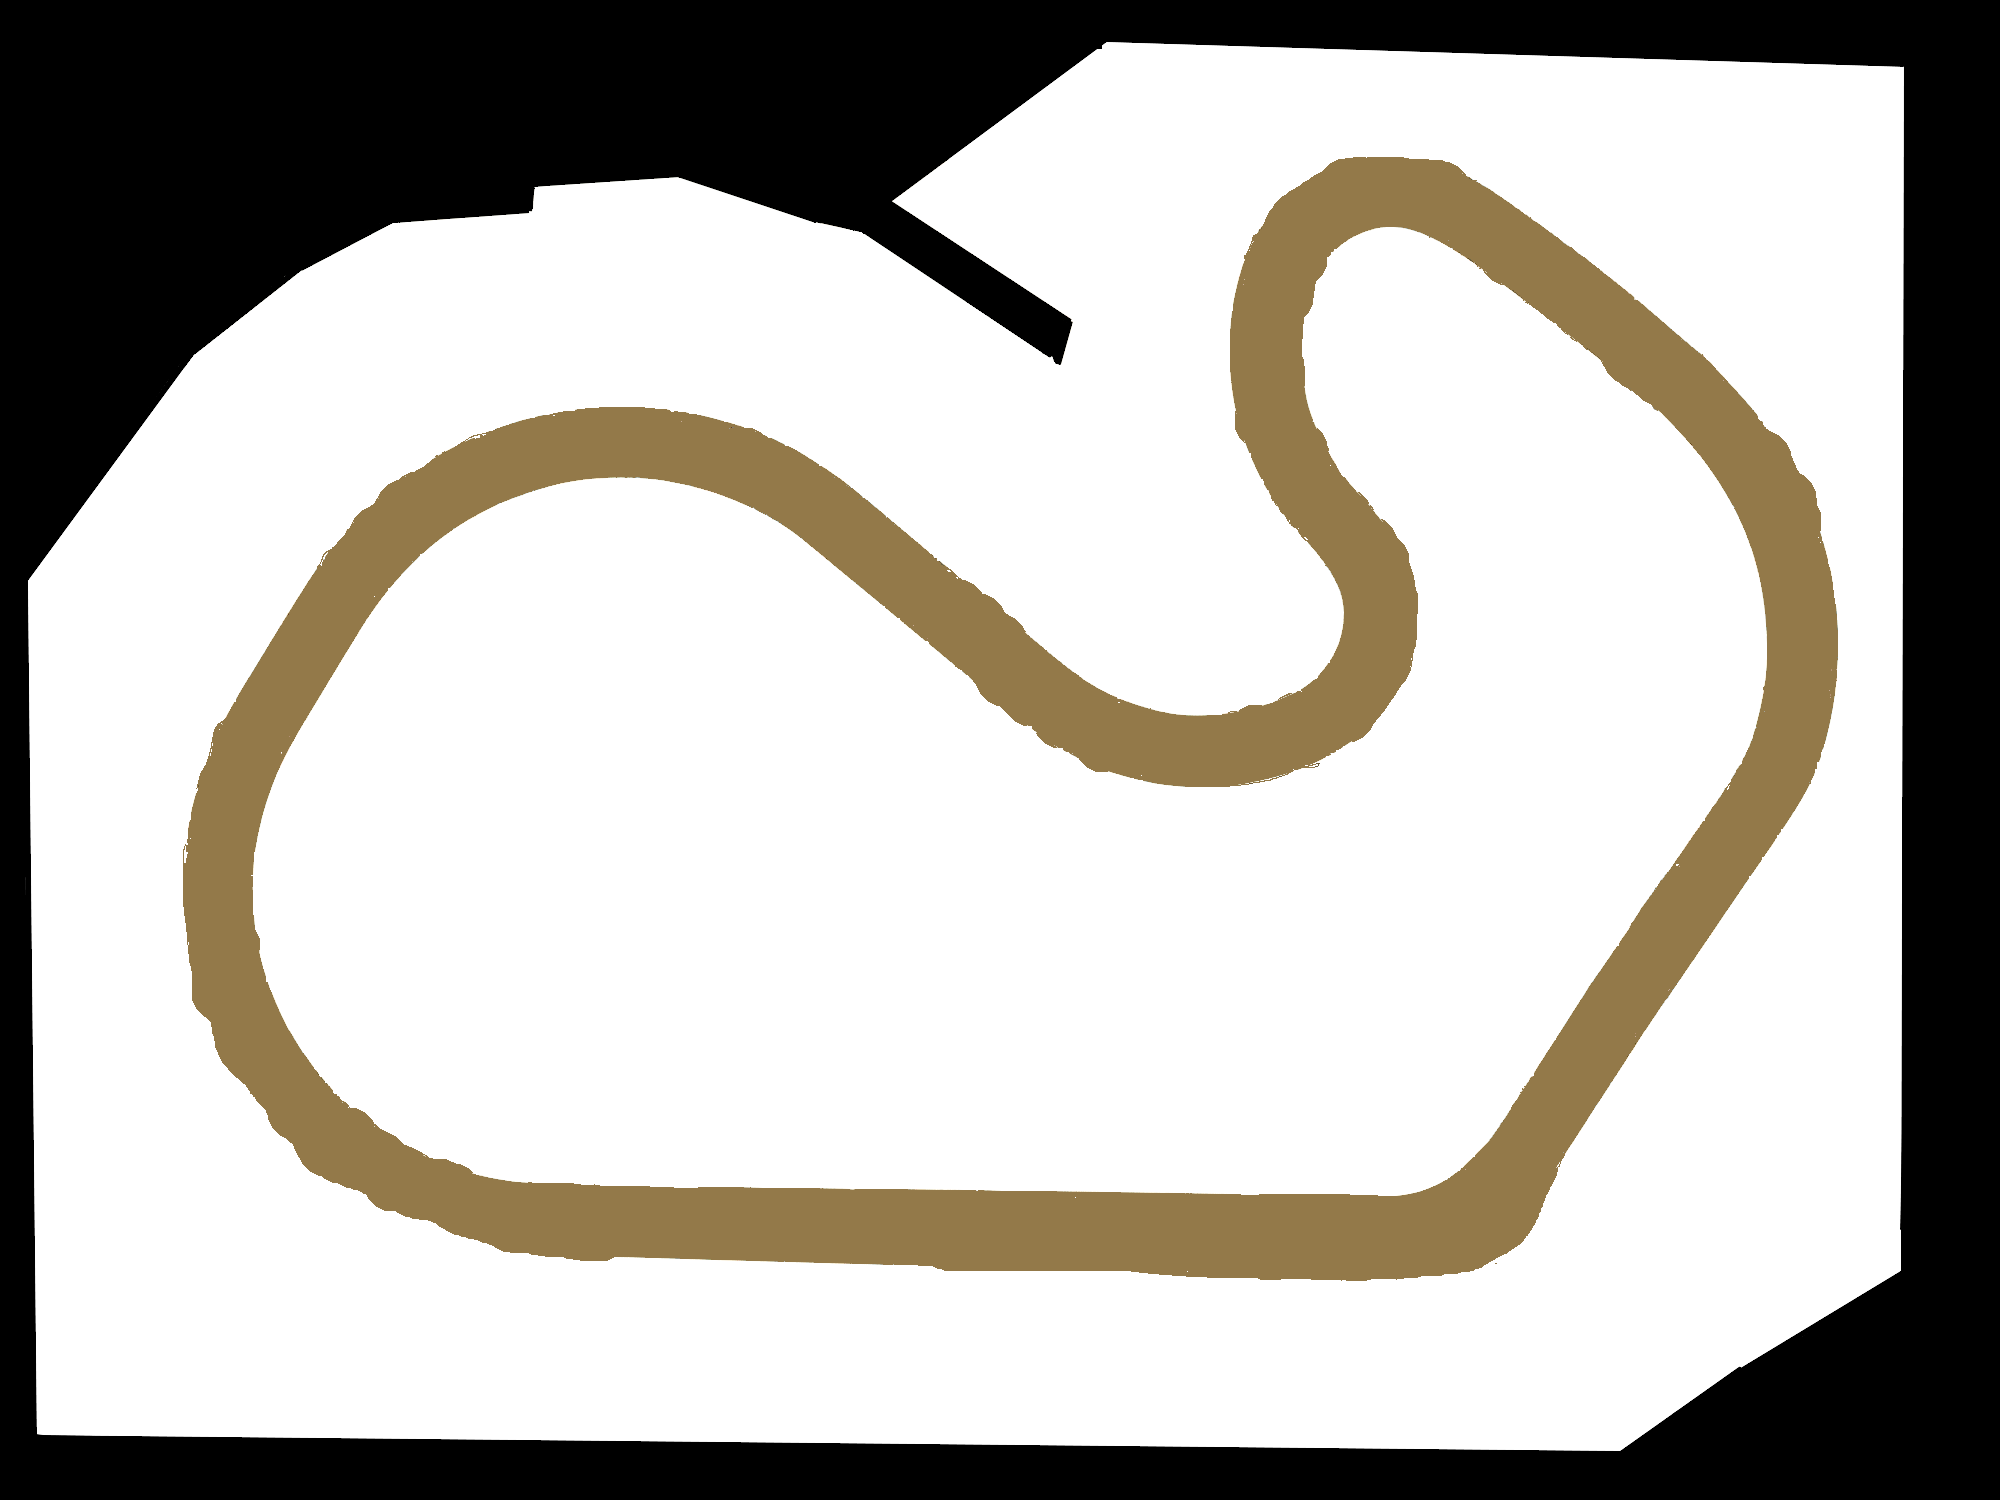
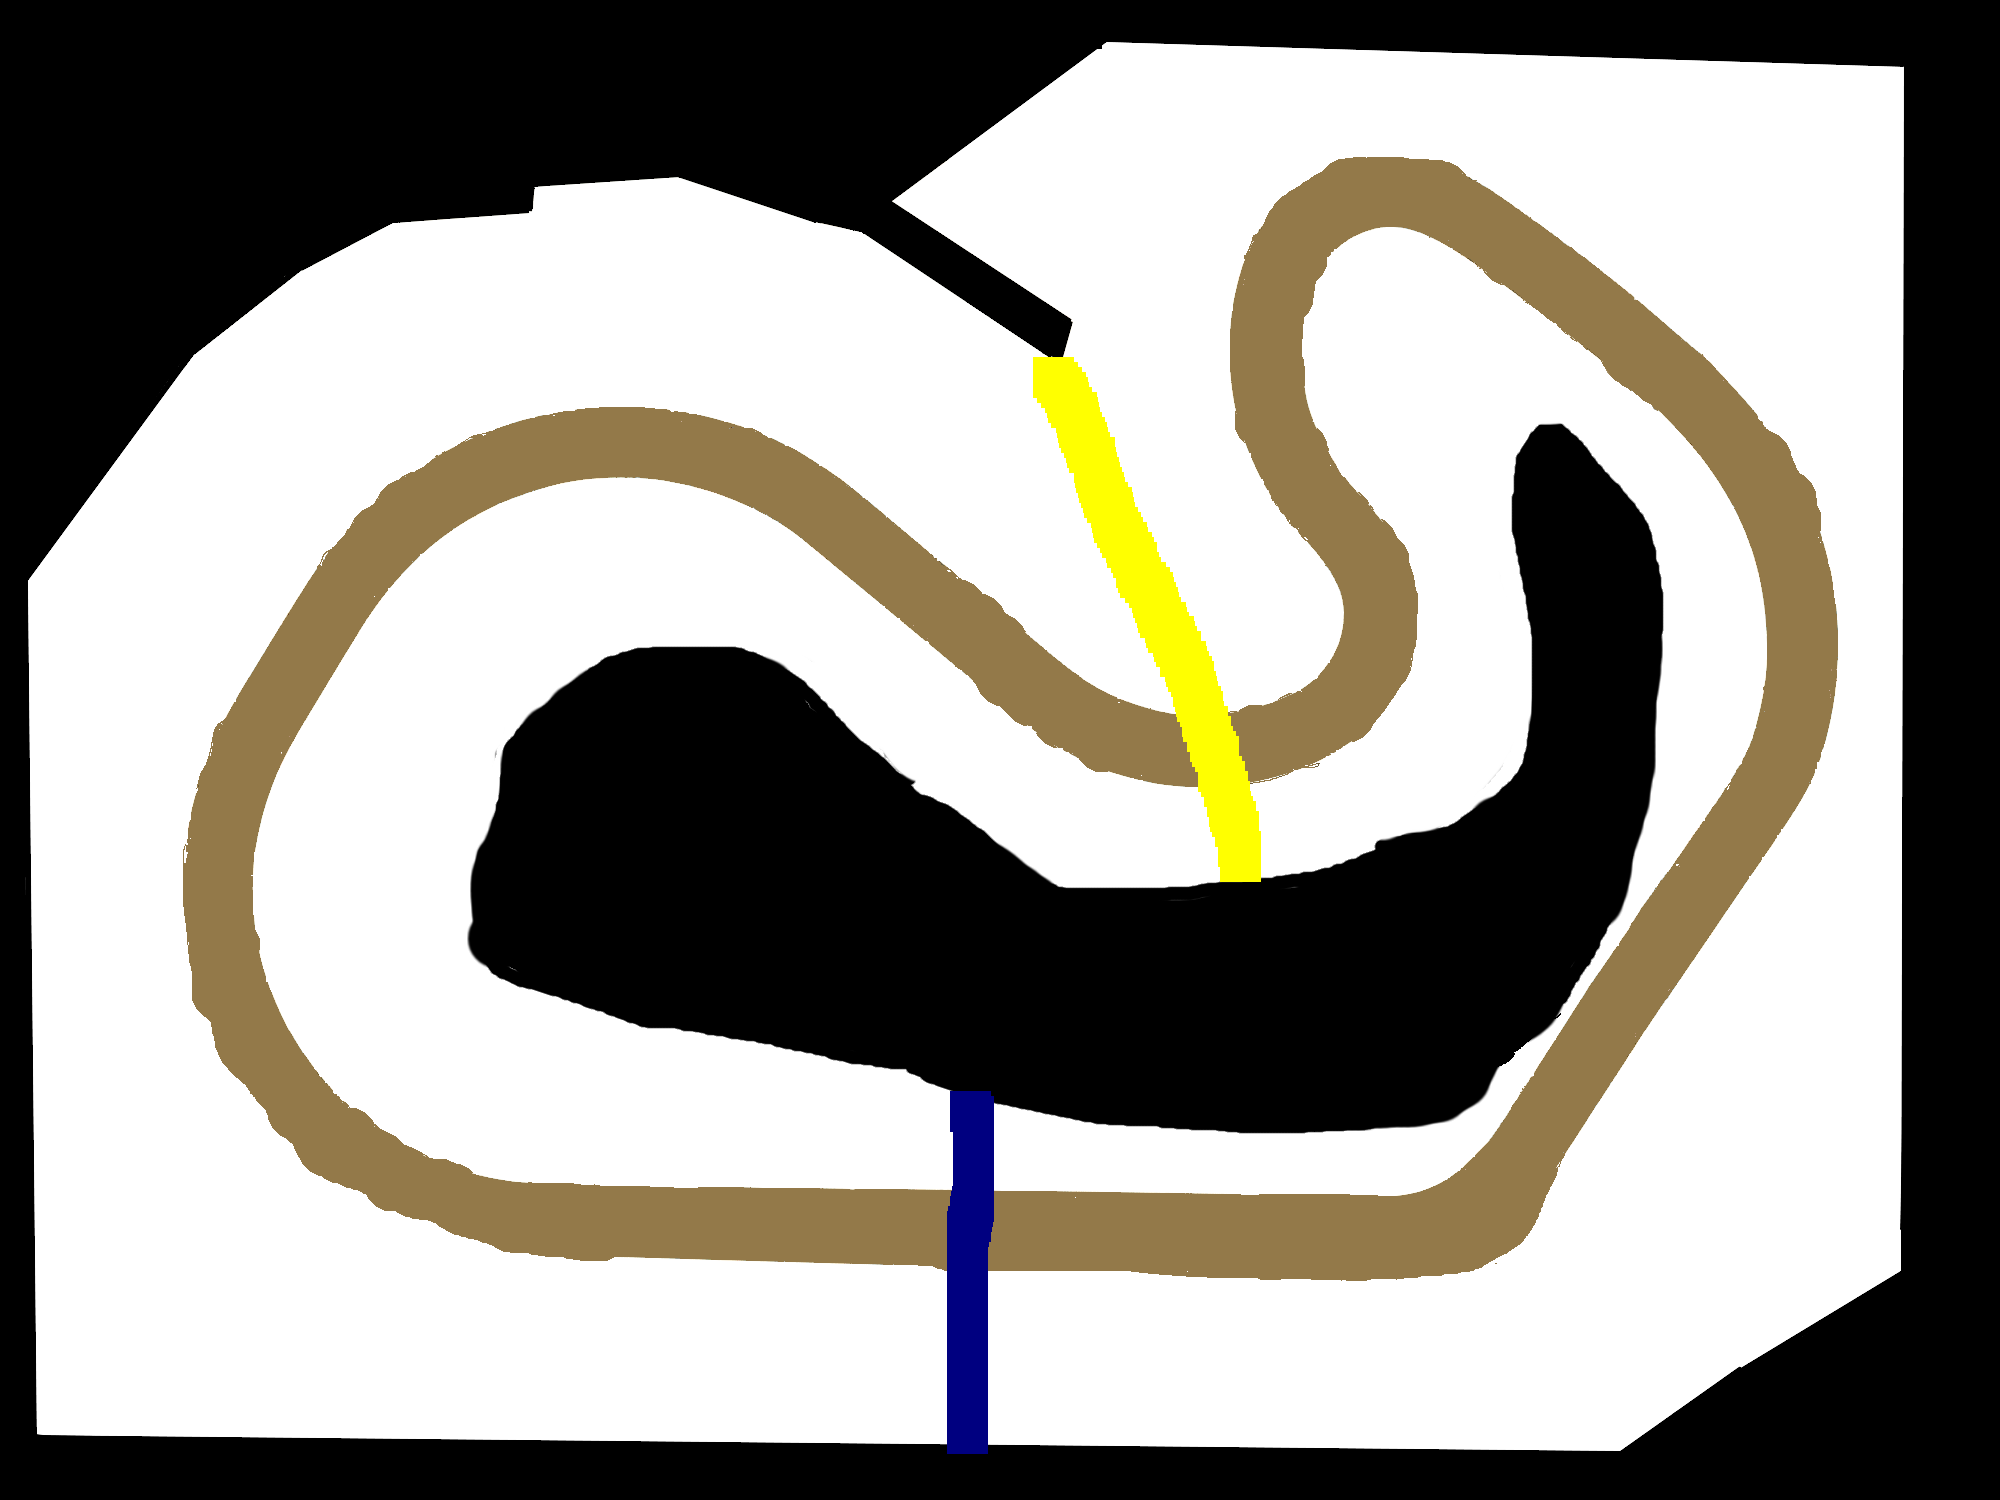
Done : - laps counter - Speed meter - End screen - Chronometer
TODO :
- minimap
- beginning screen

Changed region(s): [[0.217, 0.2453, 0.837, 0.9813]]

diff --git a/LordOfTheRace/LordOfTheRace/main.cpp b/LordOfTheRace/LordOfTheRace/main.cpp
@@ -3,6 +3,7 @@
 #include <SFML/Graphics.hpp>
 #include "Car.h"
 #include "GraphicEngine.h"
+#include "CXBOXController.h"
 
 using namespace std;
 using namespace sf;
@@ -11,13 +12,23 @@ const int WINDOW_WIDTH = 800;//1200
 const int WINDOW_HEIGHT = 600;//900
 const String WINDOW_NAME = "Lord of the race";
 const int FRAME_LIMIT = 32;
+const int LAP_MAX = 3;
 
 int main()
 {
 	RenderWindow app(VideoMode(WINDOW_WIDTH, WINDOW_HEIGHT, 32), WINDOW_NAME);
 	GraphicEngine * m_graphicEngine = new GraphicEngine(app);
-
+	int currentLap;
+	int previousLap = 1;
 	string initValue = m_graphicEngine->initGraphicEngine();
+	int m_gamePadDirection = 0;
+
+	//TODO : XInput
+	CXBOXController* Player1;
+	CXBOXController* Player2;
+	Player1 = new CXBOXController(1);
+	Player2 = new CXBOXController(2);
+	XINPUT_STATE m_state;
 
 	if (initValue != "")
 	{
@@ -68,14 +79,45 @@ int main()
 
 	Vector2f center(car.getX(), car.getY());
 	Vector2f halfSize(WINDOW_WIDTH / 4, WINDOW_HEIGHT / 4);
+	//Vector2f halfSize(WINDOW_WIDTH, WINDOW_HEIGHT);
 	View view(center, halfSize);	
 
 	while (app.isOpen())
 	{
+		m_state = Player1->GetState();
+		XINPUT_STATE m_state2 = Player2->GetState();
+		m_gamePadDirection = 0;
+
+		float LX = m_state.Gamepad.sThumbLX;
+		float LY = m_state.Gamepad.sThumbLY;
+
+		//determine how far the controller is pushed
+		float magnitude = sqrt(LX*LX + LY*LY);
+
+		//determine the direction the controller is pushed
+		float normalizedLX = LX / magnitude;
+		float normalizedLY = LY / magnitude;
+
+		float normalizedMagnitude = 0;
+
+		if (magnitude > XINPUT_GAMEPAD_LEFT_THUMB_DEADZONE)
+		{
+			if (normalizedLX < 0)
+				m_gamePadDirection = -1;
+			else
+				m_gamePadDirection = 1;
+
+		}
+		else //if the controller is in the deadzone zero out the magnitude
+		{
+			magnitude = 0.0;
+			normalizedMagnitude = 0.0;
+		}
+
 		Event event;
 		while (app.pollEvent(event))
 		{
-			if (event.type == Event::Closed)
+			if (event.type == Event::Closed || (Player1->GetState().Gamepad.wButtons & XINPUT_GAMEPAD_BACK))// || (m_state.Gamepad.wButtons & XINPUT_GAMEPAD_BACK))// || m_gamepad.isPressed()
 				app.close();
 
 			if (event.type == Event::KeyPressed)
@@ -87,7 +129,7 @@ int main()
 		Manage of the keyboard input
 		*/
 
-		if (Keyboard::isKeyPressed(Keyboard::Left))
+		if (Keyboard::isKeyPressed(Keyboard::Left) || (Player1->GetState().Gamepad.wButtons & XINPUT_GAMEPAD_DPAD_LEFT) || m_gamePadDirection == -1)
 		{
 			if (car.getSpeed() > 0)
 			{
@@ -96,7 +138,7 @@ int main()
 			}			
 		}
 
-		if (Keyboard::isKeyPressed(Keyboard::Right))
+		if (Keyboard::isKeyPressed(Keyboard::Right) || (Player1->GetState().Gamepad.wButtons & XINPUT_GAMEPAD_DPAD_RIGHT) || m_gamePadDirection == 1)
 		{
 			if (car.getSpeed() > 0)
 			{
@@ -105,12 +147,14 @@ int main()
 			}
 		}
 
-		if (Keyboard::isKeyPressed(Keyboard::Up))
+		if (Keyboard::isKeyPressed(Keyboard::Up) || (Player1->GetState().Gamepad.wButtons & XINPUT_GAMEPAD_A))
 		{
 			car.speedUp();
+		} else {
+			car.speedDown();
 		}
 
-		if (Keyboard::isKeyPressed(Keyboard::Down))
+		if (Keyboard::isKeyPressed(Keyboard::Down) || (Player1->GetState().Gamepad.wButtons & XINPUT_GAMEPAD_X))
 		{
 			car.speedDown();
 		}
@@ -118,19 +162,32 @@ int main()
 		/*
 		Display
 		*/
+		currentLap = car.getLap();
 		app.clear();
-		car.move(raceMask);								
 
-		app.draw(raceSprite);
+		if (previousLap != currentLap)
+		{
+			m_graphicEngine->newLap();
+			previousLap = currentLap;
+		}
+
+		if (currentLap == LAP_MAX + 1)
+		{
+			m_graphicEngine->drawFinalScreen();
+			
+		} else { 
+			car.move(raceMask);								
+
+			app.draw(raceSprite);
 	
-		//This 3 lines are linked. Cause of the "View"
-		m_graphicEngine->draw(car.getSpeed());
-		app.setView(view);
-		view.setCenter(car.getX(), car.getY());
+			//This 3 lines are linked. Cause of the "View"
+			m_graphicEngine->draw(car.getSpeed(), currentLap, 3);
+			app.setView(view);
+			view.setCenter(car.getX(), car.getY());
 
-		carSprite.setPosition(car.getX(), car.getY());		
-		app.draw(carSprite);		
-
+			carSprite.setPosition(car.getX(), car.getY());		
+			app.draw(carSprite);
+		}
 		app.display();
 	}
 

diff --git a/LordOfTheRace/LordOfTheRace/GraphicEngine.h b/LordOfTheRace/LordOfTheRace/GraphicEngine.h
@@ -6,6 +6,7 @@
 #include <string>
 #include <iostream>
 #include <sstream>
+#include "Chronometer.h"
 
 class GraphicEngine
 {
@@ -16,10 +17,14 @@ public:
 	std::string initGraphicEngine();
 	std::string loadTexture();
 	std::string initText();
+	sf::Text getText();
 	void loadSprite();
 	void initView();
 	void initVar();
-	void draw(float speed);	
+	void newLap();
+	void setTextForDraw(float speed, int lap, int maxLap);
+	void draw(float speed, int lap, int maxLap);
+	void drawFinalScreen();
 
 private:
 
@@ -27,7 +32,6 @@ private:
 	sf::View viewMeter;
 
 	//Speed meter
-	SpeedMeter m_speledMeter;
 	sf::Texture m_T_speedMeter;
 	sf::Sprite m_S_speedMeter;	
 	
@@ -37,18 +41,29 @@ private:
 	
 	//Text
 	sf::Text m_speedText;	
-	sf::Font m_font;
+	sf::Text m_lap;
+	sf::Text m_finalScreen;
+	sf::Text m_currentTimer;
+	sf::Text m_bestLapText;
+	sf::Font m_font;	
+
+	//Chronometer
+	Chronometer m_chronometer;
+
+	int m_bestLap = -1;
 
 	const double m_speedMeterScale = 0.1;
 	const double m_handScale = 0.15;
-	const double SPEED_METER_X = 0;
-	const double SPEED_METER_Y = 800;	
-	const double HAND_BEGIN_POSITION = -110;
-	const double SPEED_ADAPTOR = 20.98;
-	//Min : -110 // Max : 18
-
-	const int VIEW_SIZE_X = 200;
-	const int VIEW_SIZE_Y = 200;
+	const double SPEED_METER_X = 100;
+	const double SPEED_METER_Y = 600;	
+	const double HAND_BEGIN_POSITION = -123;
+	//Min : -123 // Max : 115
+	const double SPEED_ADAPTOR = 39.016;
+	const double SPEED_ADAPTATOR_TEXT = 32.787;
+	const int HAND_X = 220;
+	const int HAND_Y = 725;	
+	const int VIEW_SIZE_X = 800;
+	const int VIEW_SIZE_Y = 600;
 	
 };
 

diff --git a/LordOfTheRace/LordOfTheRace/Car.cpp b/LordOfTheRace/LordOfTheRace/Car.cpp
@@ -6,7 +6,8 @@ Constructor & Destructor
 
 Car::Car(float _x, float _y, float a, float s) : x(_x), y(_y), angle(a), speed(s)
 {
-
+	m_currentLap = 1;
+	m_nextLap = false;
 }
 
 /*
@@ -32,6 +33,11 @@ float Car::getAngle()
 	return angle;
 }
 
+float Car::getLap()
+{
+	return m_currentLap;
+}
+
 /*
 Others
 */
@@ -42,19 +48,36 @@ void Car::move(sf::Image& maskRace)
 	m_nextX = x + cos(angle * M_PI / 180) *  speed;
 	m_nextY = y + sin(angle * M_PI / 180) * speed;
 
-	if (calculateNextMove(maskRace))
+	if (calculateMaskCollision(maskRace))
 	{
 		x += cos(angle * M_PI / 180) * speed;
 		y += sin(angle * M_PI / 180) * speed;
 	}		
 }
 
-bool Car::calculateNextMove(sf::Image& raceMask)
+bool Car::calculateMaskCollision(sf::Image& raceMask)
 {
 	sf::Color nextPos = raceMask.getPixel(m_nextX, m_nextY);
 
 	if (nextPos == sf::Color::Black)
+	{
+		speedDownFast();
 		return false;
+	}
+
+	if (nextPos == sf::Color(255, 255, 0))
+	{
+		m_nextLap = true;
+	}
+
+	if (nextPos == sf::Color(0, 0, 128))
+	{
+		if (m_nextLap)
+		{
+			m_currentLap++;
+			m_nextLap = false;
+		}
+	}
 
 	if (nextPos == sf::Color::White)
 		speedDownFast();
@@ -65,7 +88,7 @@ bool Car::calculateNextMove(sf::Image& raceMask)
 void Car::turnLeft()
 {
 	angle -= 2.f;
-}
+} 
 
 void Car::turnRight()
 {
@@ -74,8 +97,10 @@ void Car::turnRight()
 
 void Car::speedUp()
 {
-	if (speed <= m_speedMax )
+	if (speed <= m_speedMax)
 		speed += m_speedValue;
+	else
+		speed = 6.1;
 }
 
 void Car::speedDown()

diff --git a/LordOfTheRace/LordOfTheRace/Car.h b/LordOfTheRace/LordOfTheRace/Car.h
@@ -19,9 +19,10 @@ public:
 	float getY();
 	float getAngle();
 	float getSpeed();
+	float getLap();
 
 	void move(sf::Image& raceMask);
-	bool calculateNextMove(sf::Image& raceMask);
+	bool calculateMaskCollision(sf::Image& raceMask);
 	void turnLeft();
 	void turnRight();
 	void speedUp();
@@ -38,7 +39,8 @@ private:
 	
 	float m_nextX;
 	float m_nextY;
-
+	bool m_nextLap;
+	int m_currentLap;
 	const float m_speedValue = 0.1f;
 	const float m_speedMax = 6;
 	const float m_speedMin = 0;
